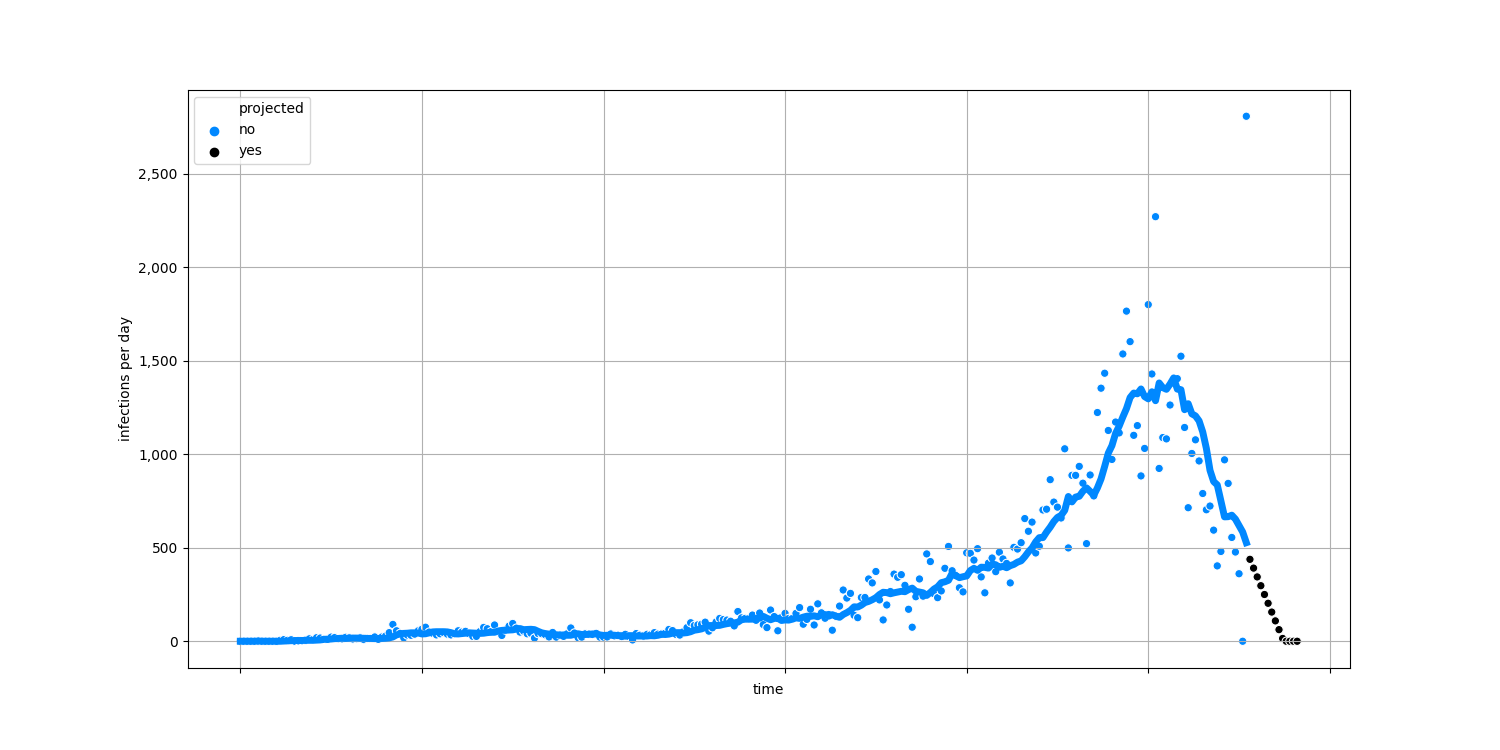
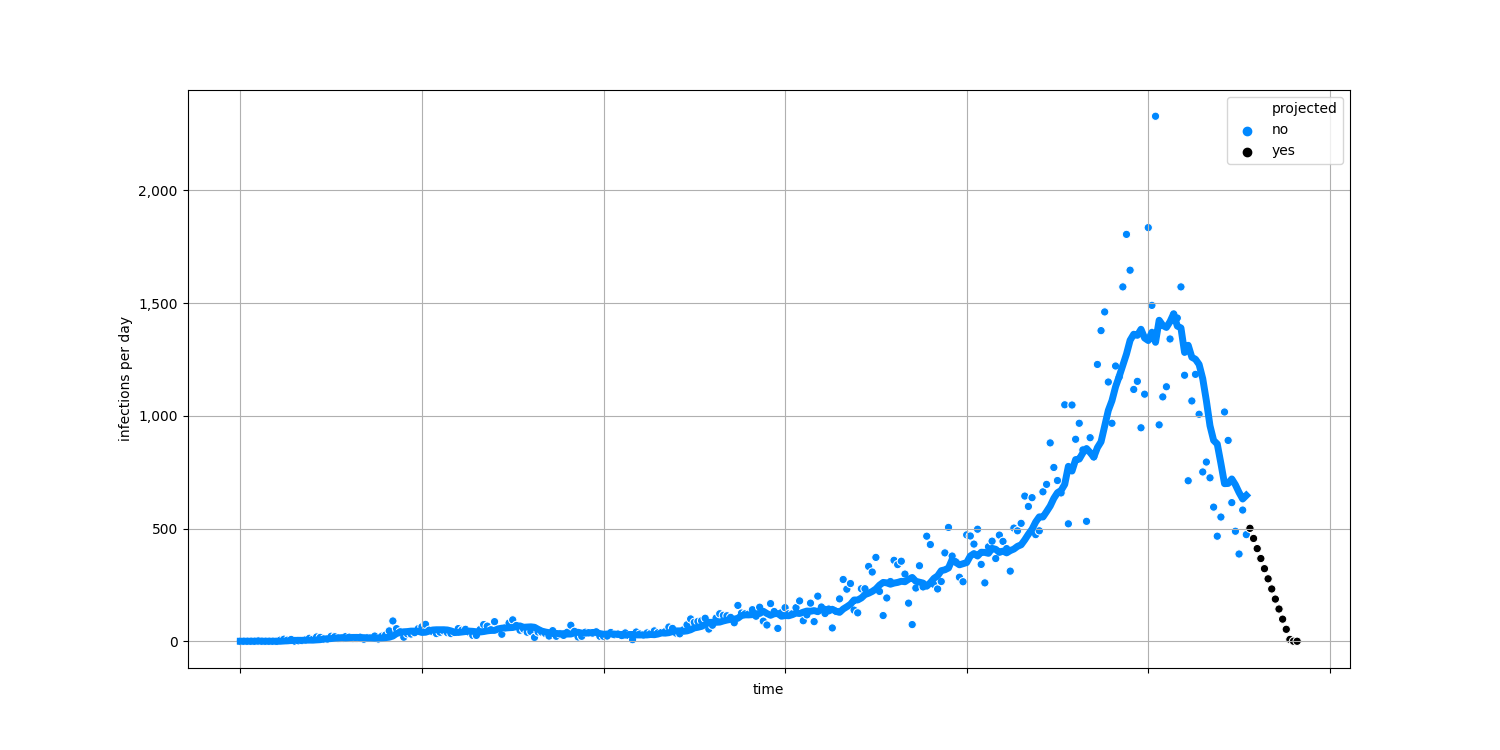
regular update

diff --git a/docs/table.html b/docs/table.html
@@ -100,7 +100,7 @@
     <script type="text/javascript">
       window.addEventListener('DOMContentLoaded', () => {
 
-        const data = [{'state': 'Alabama', 'deaths_per_million_per_day': '9', 'positive_per_million_per_day': '692'}, {'state': 'Alaska', 'deaths_per_million_per_day': '4', 'positive_per_million_per_day': '961'}, {'state': 'American Samoa', 'deaths_per_million_per_day': '0', 'positive_per_million_per_day': '0'}, {'state': 'Arizona', 'deaths_per_million_per_day': '6', 'positive_per_million_per_day': '805'}, {'state': 'Arkansas', 'deaths_per_million_per_day': '11', 'positive_per_million_per_day': '711'}, {'state': 'California', 'deaths_per_million_per_day': '3', 'positive_per_million_per_day': '595'}, {'state': 'Colorado', 'deaths_per_million_per_day': '2', 'positive_per_million_per_day': '776'}, {'state': 'Connecticut', 'deaths_per_million_per_day': '8', 'positive_per_million_per_day': '781'}, {'state': 'Delaware', 'deaths_per_million_per_day': '4', 'positive_per_million_per_day': '752'}, {'state': 'District of Columbia', 'deaths_per_million_per_day': '3', 'positive_per_million_per_day': '385'}, {'state': 'Florida', 'deaths_per_million_per_day': '5', 'positive_per_million_per_day': '427'}, {'state': 'Georgia', 'deaths_per_million_per_day': '5', 'positive_per_million_per_day': '369'}, {'state': 'Guam', 'deaths_per_million_per_day': '0', 'positive_per_million_per_day': '121'}, {'state': 'Hawaii', 'deaths_per_million_per_day': '2', 'positive_per_million_per_day': '71'}, {'state': 'Idaho', 'deaths_per_million_per_day': '10', 'positive_per_million_per_day': '812'}, {'state': 'Illinois', 'deaths_per_million_per_day': '14', 'positive_per_million_per_day': '737'}, {'state': 'Indiana', 'deaths_per_million_per_day': '12', 'positive_per_million_per_day': '1,025'}, {'state': 'Iowa', 'deaths_per_million_per_day': '22', 'positive_per_million_per_day': '521'}, {'state': 'Kansas', 'deaths_per_million_per_day': '14', 'positive_per_million_per_day': '813'}, {'state': 'Kentucky', 'deaths_per_million_per_day': '5', 'positive_per_million_per_day': '719'}, {'state': 'Louisiana', 'deaths_per_million_per_day': '6', 'positive_per_million_per_day': '517'}, {'state': 'Maine', 'deaths_per_million_per_day': '3', 'positive_per_million_per_day': '220'}, {'state': 'Maryland', 'deaths_per_million_per_day': '6', 'positive_per_million_per_day': '445'}, {'state': 'Massachusetts', 'deaths_per_million_per_day': '6', 'positive_per_million_per_day': '704'}, {'state': 'Michigan', 'deaths_per_million_per_day': '12', 'positive_per_million_per_day': '681'}, {'state': 'Minnesota', 'deaths_per_million_per_day': '10', 'positive_per_million_per_day': '934'}, {'state': 'Mississippi', 'deaths_per_million_per_day': '9', 'positive_per_million_per_day': '649'}, {'state': 'Missouri', 'deaths_per_million_per_day': '8', 'positive_per_million_per_day': '594'}, {'state': 'Montana', 'deaths_per_million_per_day': '8', 'positive_per_million_per_day': '821'}, {'state': 'Nebraska', 'deaths_per_million_per_day': '16', 'positive_per_million_per_day': '939'}, {'state': 'Nevada', 'deaths_per_million_per_day': '9', 'positive_per_million_per_day': '854'}, {'state': 'New Hampshire', 'deaths_per_million_per_day': '4', 'positive_per_million_per_day': '510'}, {'state': 'New Jersey', 'deaths_per_million_per_day': '6', 'positive_per_million_per_day': '565'}, {'state': 'New Mexico', 'deaths_per_million_per_day': '14', 'positive_per_million_per_day': '803'}, {'state': 'New York', 'deaths_per_million_per_day': '4', 'positive_per_million_per_day': '493'}, {'state': 'North Carolina', 'deaths_per_million_per_day': '4', 'positive_per_million_per_day': '499'}, {'state': 'North Dakota', 'deaths_per_million_per_day': '13', 'positive_per_million_per_day': '692'}, {'state': 'Northern Mariana Islands', 'deaths_per_million_per_day': '0', 'positive_per_million_per_day': '18'}, {'state': 'Ohio', 'deaths_per_million_per_day': '7', 'positive_per_million_per_day': '977'}, {'state': 'Oklahoma', 'deaths_per_million_per_day': '6', 'positive_per_million_per_day': '765'}, {'state': 'Oregon', 'deaths_per_million_per_day': '5', 'positive_per_million_per_day': '353'}, {'state': 'Pennsylvania', 'deaths_per_million_per_day': '11', 'positive_per_million_per_day': '775'}, {'state': 'Puerto Rico', 'deaths_per_million_per_day': '4', 'positive_per_million_per_day': '224'}, {'state': 'Rhode Island', 'deaths_per_million_per_day': '12', 'positive_per_million_per_day': '1,236'}, {'state': 'South Carolina', 'deaths_per_million_per_day': '5', 'positive_per_million_per_day': '501'}, {'state': 'South Dakota', 'deaths_per_million_per_day': '26', 'positive_per_million_per_day': '989'}, {'state': 'Tennessee', 'deaths_per_million_per_day': '10', 'positive_per_million_per_day': '723'}, {'state': 'Texas', 'deaths_per_million_per_day': '6', 'positive_per_million_per_day': '435'}, {'state': 'U.S. Virgin Islands', 'deaths_per_million_per_day': '0', 'positive_per_million_per_day': '181'}, {'state': 'Utah', 'deaths_per_million_per_day': '4', 'positive_per_million_per_day': '969'}, {'state': 'Vermont', 'deaths_per_million_per_day': '3', 'positive_per_million_per_day': '186'}, {'state': 'Virginia', 'deaths_per_million_per_day': '3', 'positive_per_million_per_day': '379'}, {'state': 'Washington', 'deaths_per_million_per_day': '3', 'positive_per_million_per_day': '364'}, {'state': 'West Virginia', 'deaths_per_million_per_day': '9', 'positive_per_million_per_day': '659'}, {'state': 'Wisconsin', 'deaths_per_million_per_day': '11', 'positive_per_million_per_day': '776'}, {'state': 'Wyoming', 'deaths_per_million_per_day': '12', 'positive_per_million_per_day': '905'}, {'state': 'United States', 'deaths_per_million_per_day': '7', 'positive_per_million_per_day': '610'}];
+        const data = [{'state': 'Alabama', 'deaths_per_million_per_day': '9', 'positive_per_million_per_day': '692'}, {'state': 'Alaska', 'deaths_per_million_per_day': '4', 'positive_per_million_per_day': '961'}, {'state': 'American Samoa', 'deaths_per_million_per_day': '0', 'positive_per_million_per_day': '0'}, {'state': 'Arizona', 'deaths_per_million_per_day': '6', 'positive_per_million_per_day': '805'}, {'state': 'Arkansas', 'deaths_per_million_per_day': '11', 'positive_per_million_per_day': '711'}, {'state': 'California', 'deaths_per_million_per_day': '3', 'positive_per_million_per_day': '595'}, {'state': 'Colorado', 'deaths_per_million_per_day': '2', 'positive_per_million_per_day': '776'}, {'state': 'Connecticut', 'deaths_per_million_per_day': '8', 'positive_per_million_per_day': '781'}, {'state': 'Delaware', 'deaths_per_million_per_day': '4', 'positive_per_million_per_day': '752'}, {'state': 'District of Columbia', 'deaths_per_million_per_day': '3', 'positive_per_million_per_day': '385'}, {'state': 'Florida', 'deaths_per_million_per_day': '5', 'positive_per_million_per_day': '427'}, {'state': 'Georgia', 'deaths_per_million_per_day': '5', 'positive_per_million_per_day': '369'}, {'state': 'Guam', 'deaths_per_million_per_day': '0', 'positive_per_million_per_day': '121'}, {'state': 'Hawaii', 'deaths_per_million_per_day': '2', 'positive_per_million_per_day': '71'}, {'state': 'Idaho', 'deaths_per_million_per_day': '10', 'positive_per_million_per_day': '812'}, {'state': 'Illinois', 'deaths_per_million_per_day': '14', 'positive_per_million_per_day': '737'}, {'state': 'Indiana', 'deaths_per_million_per_day': '12', 'positive_per_million_per_day': '1,025'}, {'state': 'Iowa', 'deaths_per_million_per_day': '22', 'positive_per_million_per_day': '521'}, {'state': 'Kansas', 'deaths_per_million_per_day': '14', 'positive_per_million_per_day': '813'}, {'state': 'Kentucky', 'deaths_per_million_per_day': '5', 'positive_per_million_per_day': '719'}, {'state': 'Louisiana', 'deaths_per_million_per_day': '6', 'positive_per_million_per_day': '517'}, {'state': 'Maine', 'deaths_per_million_per_day': '3', 'positive_per_million_per_day': '220'}, {'state': 'Maryland', 'deaths_per_million_per_day': '6', 'positive_per_million_per_day': '445'}, {'state': 'Massachusetts', 'deaths_per_million_per_day': '6', 'positive_per_million_per_day': '704'}, {'state': 'Michigan', 'deaths_per_million_per_day': '12', 'positive_per_million_per_day': '681'}, {'state': 'Minnesota', 'deaths_per_million_per_day': '10', 'positive_per_million_per_day': '934'}, {'state': 'Mississippi', 'deaths_per_million_per_day': '9', 'positive_per_million_per_day': '649'}, {'state': 'Missouri', 'deaths_per_million_per_day': '8', 'positive_per_million_per_day': '594'}, {'state': 'Montana', 'deaths_per_million_per_day': '8', 'positive_per_million_per_day': '821'}, {'state': 'Nebraska', 'deaths_per_million_per_day': '16', 'positive_per_million_per_day': '939'}, {'state': 'Nevada', 'deaths_per_million_per_day': '9', 'positive_per_million_per_day': '854'}, {'state': 'New Hampshire', 'deaths_per_million_per_day': '4', 'positive_per_million_per_day': '510'}, {'state': 'New Jersey', 'deaths_per_million_per_day': '6', 'positive_per_million_per_day': '565'}, {'state': 'New Mexico', 'deaths_per_million_per_day': '14', 'positive_per_million_per_day': '803'}, {'state': 'New York', 'deaths_per_million_per_day': '4', 'positive_per_million_per_day': '493'}, {'state': 'North Carolina', 'deaths_per_million_per_day': '4', 'positive_per_million_per_day': '499'}, {'state': 'North Dakota', 'deaths_per_million_per_day': '13', 'positive_per_million_per_day': '849'}, {'state': 'Northern Mariana Islands', 'deaths_per_million_per_day': '0', 'positive_per_million_per_day': '18'}, {'state': 'Ohio', 'deaths_per_million_per_day': '7', 'positive_per_million_per_day': '977'}, {'state': 'Oklahoma', 'deaths_per_million_per_day': '6', 'positive_per_million_per_day': '765'}, {'state': 'Oregon', 'deaths_per_million_per_day': '5', 'positive_per_million_per_day': '353'}, {'state': 'Pennsylvania', 'deaths_per_million_per_day': '11', 'positive_per_million_per_day': '775'}, {'state': 'Puerto Rico', 'deaths_per_million_per_day': '4', 'positive_per_million_per_day': '224'}, {'state': 'Rhode Island', 'deaths_per_million_per_day': '12', 'positive_per_million_per_day': '1,236'}, {'state': 'South Carolina', 'deaths_per_million_per_day': '5', 'positive_per_million_per_day': '501'}, {'state': 'South Dakota', 'deaths_per_million_per_day': '26', 'positive_per_million_per_day': '989'}, {'state': 'Tennessee', 'deaths_per_million_per_day': '10', 'positive_per_million_per_day': '723'}, {'state': 'Texas', 'deaths_per_million_per_day': '6', 'positive_per_million_per_day': '435'}, {'state': 'U.S. Virgin Islands', 'deaths_per_million_per_day': '0', 'positive_per_million_per_day': '181'}, {'state': 'Utah', 'deaths_per_million_per_day': '4', 'positive_per_million_per_day': '969'}, {'state': 'Vermont', 'deaths_per_million_per_day': '3', 'positive_per_million_per_day': '186'}, {'state': 'Virginia', 'deaths_per_million_per_day': '3', 'positive_per_million_per_day': '379'}, {'state': 'Washington', 'deaths_per_million_per_day': '3', 'positive_per_million_per_day': '364'}, {'state': 'West Virginia', 'deaths_per_million_per_day': '9', 'positive_per_million_per_day': '659'}, {'state': 'Wisconsin', 'deaths_per_million_per_day': '11', 'positive_per_million_per_day': '776'}, {'state': 'Wyoming', 'deaths_per_million_per_day': '12', 'positive_per_million_per_day': '905'}, {'state': 'United States', 'deaths_per_million_per_day': '7', 'positive_per_million_per_day': '610'}];
 
         const render = () => {
           const tbody = document.querySelector('tbody');

diff --git a/docs/index.html b/docs/index.html
@@ -86,12 +86,12 @@
           <p class="font-body-md">
             Today there were
              <strong>
-            213,354</strong> COVID-19
+            211,020</strong> COVID-19
             cases identified.
-            There are about <strong>202,351</strong> new
+            There are about <strong>202,472</strong> new
             cases identified every day (7-day average). At the current rate, the
             average number of new cases per day will be about
-            <strong>212,000</strong> in 7 days and
+            <strong>213,000</strong> in 7 days and
             about <strong>233,000</strong> in 14
             days. This chart shows the number of new cases each day since the
             first case was identified. The dots are the total number of new

diff --git a/docs/ND.html b/docs/ND.html
@@ -86,12 +86,12 @@
           <p class="font-body-md">
             Today there were
              <strong>
-            2,807</strong> COVID-19
+            473</strong> COVID-19
             cases identified.
-            There are about <strong>527</strong> new
+            There are about <strong>647</strong> new
             cases identified every day (7-day average). At the current rate, the
             average number of new cases per day will be about
-            <strong>156</strong> in 7 days and
+            <strong>232</strong> in 7 days and
             about <strong>0</strong> in 14
             days. This chart shows the number of new cases each day since the
             first case was identified. The dots are the total number of new
